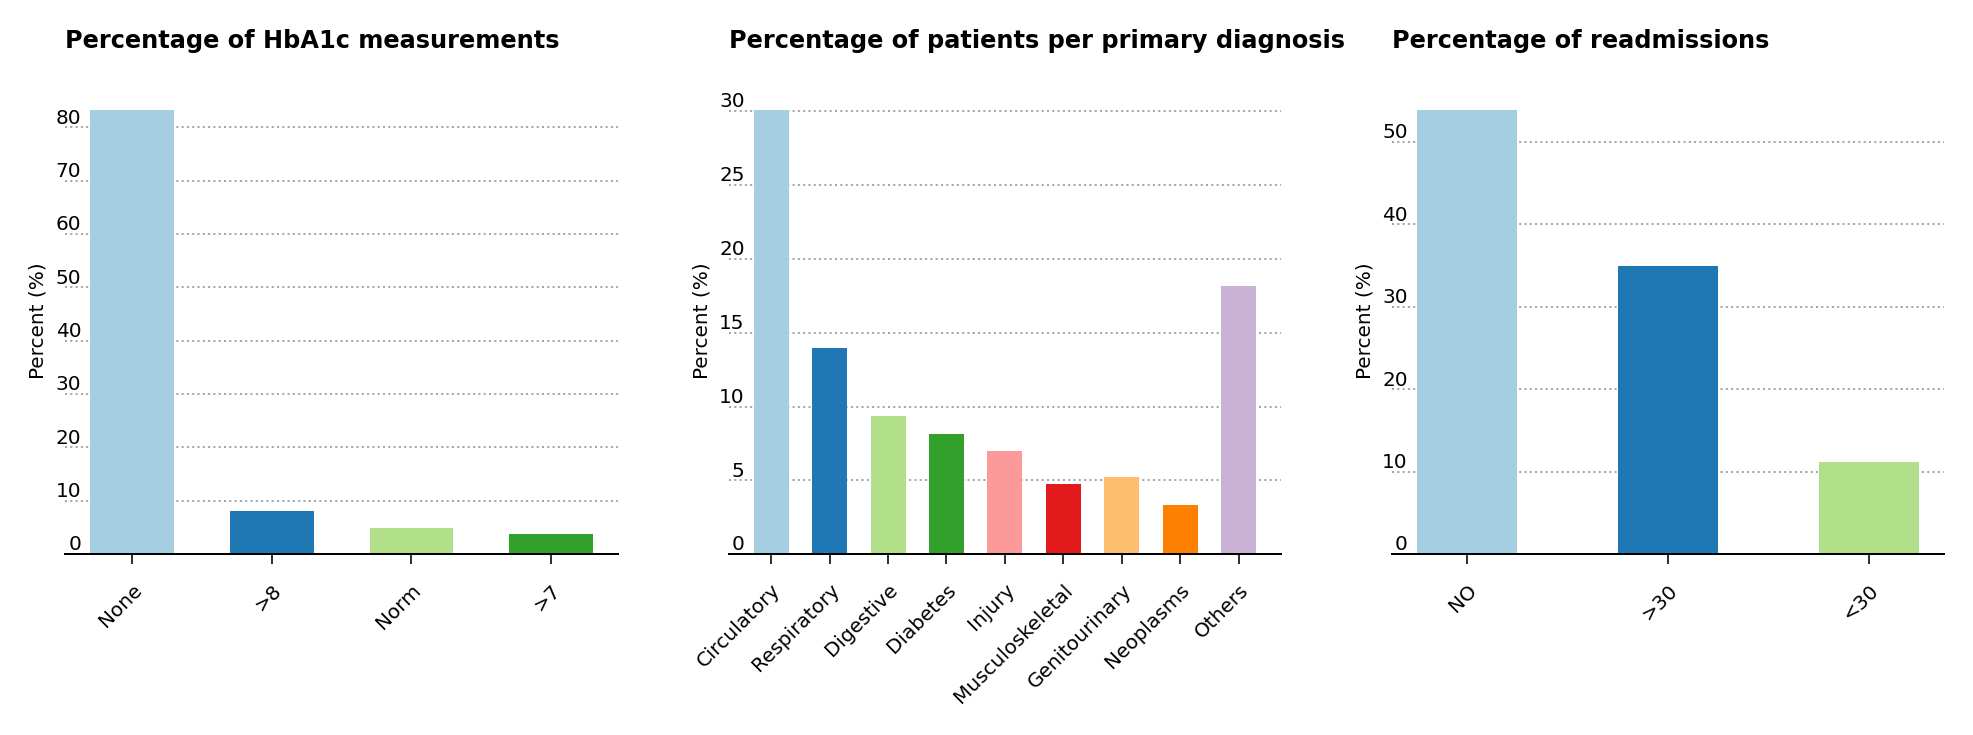
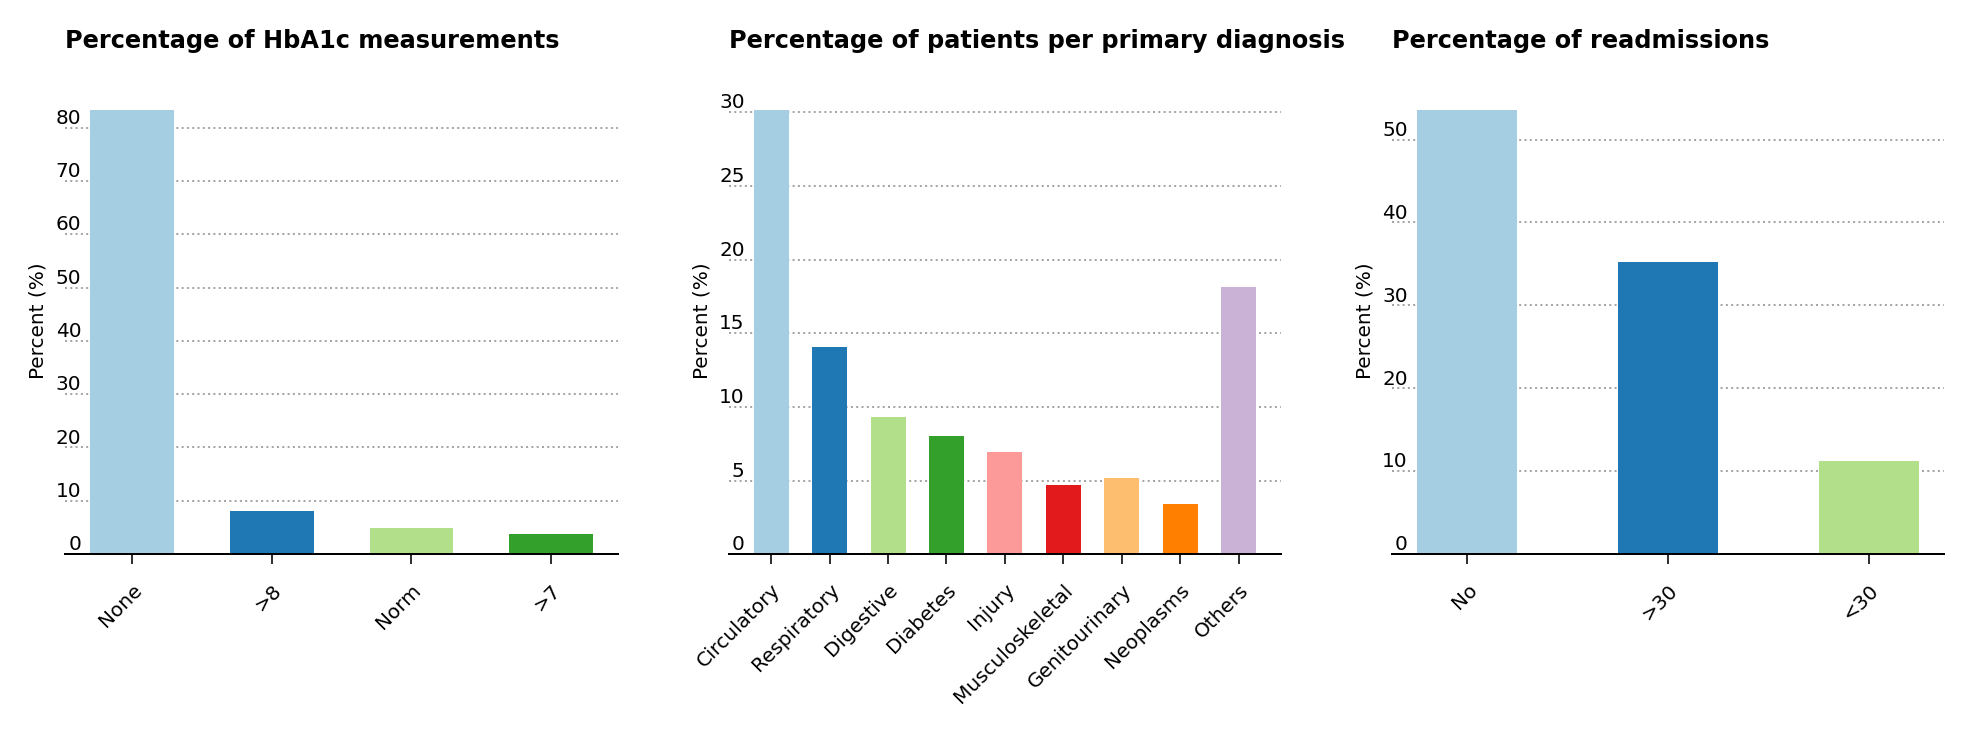
Updated to pandas 2.2.x

Changed region(s): [[0.7111, 0.8082, 0.742, 0.8381], [0.6802, 0.3891, 0.7111, 0.419], [0.6802, 0.2694, 0.7111, 0.2993]]

diff --git a/exploratory_data_analysis/a1c_diagnosis_readmitted.py b/exploratory_data_analysis/a1c_diagnosis_readmitted.py
@@ -6,7 +6,7 @@ import matplotlib.pyplot as plt
 from pathlib import Path
 
 work_dir = Path.home() / 'Programming/Python/machine-learning-exercises/'\
-                        'uci-ml-repository/diabetes-in-130-US-hospitals/'
+                         'uci-ml-repository/diabetes-in-130-US-hospitals/'
 data_file = work_dir / 'data/diabetic_data.csv'
 
 # bar plot style with directory path
@@ -15,32 +15,52 @@ plt.style.use(barplot_style)
 
 df = pd.read_csv(data_file, na_values='?', low_memory=False)
 obj_cols = df.select_dtypes('object').columns
-df[obj_cols] = df[obj_cols].astype('category')
+df[obj_cols] = df[obj_cols].astype('string')
 
-# A1Cresult
-a1c_result_df = df['A1Cresult'].value_counts(dropna=False, normalize=True)*100
-a1c_result_df = a1c_result_df.reset_index().rename(columns={'index': 'Feature', 'A1Cresult': 'Percentage'})
-
-# readmitted
-readmitted_df = df['readmitted'].value_counts(dropna=False, normalize=True)*100
-readmitted_df = readmitted_df.reset_index().rename(columns={'index': 'Feature', 'A1Cresult': 'Percentage'})
-
-# primary diagnosis
+# removing NaN or null values from race and gender
 df = df.loc[df.race.notnull()]
 df = df.loc[df.gender != 'Unknown/Invalid', :]
 
-df.drop(['weight', 'medical_specialty', 'payer_code', 'encounter_id'], axis=1, inplace=True)
+# dropping categories due to high presence of NaN / null values
+df.drop(['weight', 'medical_specialty', 'payer_code', 'encounter_id'],
+        axis=1, inplace=True)
 
+# change np.nan to 'None' in 'max_glu_serum' and 'A1Cresult' columns
+df[['max_glu_serum', 'A1Cresult']] = \
+    df[['max_glu_serum', 'A1Cresult']].fillna('None')
+
+# A1Cresult
+a1c_result_df = df['A1Cresult'].value_counts(dropna=False, normalize=True)*100
+a1c_result_df = a1c_result_df.reset_index().\
+    rename(columns={'A1Cresult': 'Feature', 'proportion': 'Percentage'})
+
+# readmitted
+readmitted_df = df['readmitted'].value_counts(dropna=False, normalize=True)*100
+readmitted_df = readmitted_df.reset_index().\
+    rename(columns={'readmitted': 'Feature', 'proportion': 'Percentage'})
+readmitted_df.replace(to_replace={'NO': 'No'}, inplace=True)
+
+# converting null/unmapped values in 'admission_type_id',
+# 'discharge_disposition_id' and 'admission_source_id' to NaN.
 df['admission_type_id'] = df['admission_type_id'].replace([5, 6, 8], np.nan)
-df['discharge_disposition_id'] = df['discharge_disposition_id'].replace([18, 25, 26], np.nan)
-df['admission_source_id'] = df['admission_source_id'].replace([9, 15, 17, 20, 21], np.nan)
-id_list = ['admission_type_id', 'discharge_disposition_id', 'admission_source_id']
-df[id_list] = df[id_list].astype('category')
+df['discharge_disposition_id'] = df['discharge_disposition_id'].\
+    replace([18, 25, 26], np.nan)
+df['admission_source_id'] = df['admission_source_id'].\
+    replace([9, 15, 17, 20, 21], np.nan)
 
+# converting 'admission_type_id', 'discharge_disposition_id'
+# and 'admission_source_id' from int64 to string
+id_list = ['admission_type_id', 'discharge_disposition_id',
+           'admission_source_id']
+df[id_list] = df[id_list].astype('string')
+
+# consolidating all variations of `Expired at...` and removing them
 df = df[~df['discharge_disposition_id'].isin([11, 19, 20, 21])]
 
-df['service_use'] = df['number_outpatient'] + df['number_emergency'] + df['number_inpatient']
-df.drop(['number_outpatient', 'number_emergency', 'number_inpatient'], axis=1, inplace=True)
+df['service_use'] = df['number_outpatient'] +\
+    df['number_emergency'] + df['number_inpatient']
+df.drop(['number_outpatient', 'number_emergency', 'number_inpatient'],
+        axis=1, inplace=True)
 
 df.dropna(how='any', inplace=True)
 
@@ -52,39 +72,48 @@ musculoskeletal_list = [str(f) for f in list(range(710, 740))]
 genitourinary_list = [str(f) for f in list(range(580, 630)) + [788]]
 neoplasms_list = [str(f) for f in list(range(140, 240))]
 
-diagnosis_list = [circulatory_list, respiratory_list, digestive_list, injury_list,
-                  musculoskeletal_list, genitourinary_list, neoplasms_list]
+diagnosis_list = [circulatory_list, respiratory_list,
+                  digestive_list, injury_list,
+                  musculoskeletal_list, genitourinary_list,
+                  neoplasms_list]
 diagnosis_names = ['Circulatory', 'Respiratory', 'Digestive', 'Injury',
                    'Musculoskeletal', 'Genitourinary', 'Neoplasms']
 
-for diag_name, diag_list in zip(diagnosis_names, diagnosis_list):
-    df.loc[:, diag_name+'_col'] = np.array([np.nan for i in range(df.shape[0])])
-    filter_ = df['diag_1'].isin(diag_list)
-    df.loc[filter_, diag_name+'_col'] = np.array([diag_name for i in range(filter_.sum())])
+# selection on primary diagnosis
+diag_col, index = 'diag_1', 1
+df['primary_diag'] = np.array(['Others' for _ in range(df.shape[0])],
+                              dtype='object')
 
+for diag_name, diag_list in zip(diagnosis_names, diagnosis_list):
+    mask = df[diag_col].isin(diag_list)
+    df.loc[mask, 'primary_diag'] = \
+        np.array([diag_name for _ in range(mask.sum())], dtype='object')
+
+# other diagnosis
 diab_others_list = ['Diabetes', 'Others', 'Others']
 char_list = ['250.', 'E', 'V']
 
 for diag_name, char in zip(diab_others_list, char_list):
-    df[diag_name+'_col'] = np.array([np.nan for _ in range(df.shape[0])])
-    filter_ = df['diag_1'].str.contains(char)
-    df.loc[filter_, diag_name+'_col'] = np.array([diag_name for i in range(filter_.sum())])
+    mask = df[diag_col].str.contains(char)
+    df.loc[mask, 'primary_diag'] = \
+        np.array([diag_name for _ in range(mask.sum())])
 
-tmp_diag_list = [col+'_col' for col in diagnosis_names + ['Diabetes', 'Others']]
-df['primary_diag'] = df[tmp_diag_list].fillna(axis=1, method='bfill').iloc[:, 0]
-df['primary_diag'].fillna(value='Others', inplace=True)
-df['primary_diag'] = df['primary_diag'].astype('category')
-df.drop(tmp_diag_list, axis=1, inplace=True)
+# dropping all three diagnosis columns
+df.drop(['diag_1', 'diag_2', 'diag_3'], axis=1, inplace=True)
 
-diagnosis_df = df['primary_diag'].value_counts(dropna=False)
+diagnosis_df = df['primary_diag'].value_counts(dropna=False,
+                                               normalize=True)*100
 diagnosis_df.sort_values(ascending=False, inplace=True)
-diagnosis_df = (diagnosis_df/diagnosis_df.sum()*100).apply('{:.2f}'.format).astype('float')
-diagnosis_df = diagnosis_df.reset_index().rename(columns={'index': 'Primary diagnosis', 'primary_diag': 'Percentage'})
+
+diagnosis_df = diagnosis_df.reset_index().\
+    rename(columns={'primary_diag': 'Primary diagnosis',
+                    'proportion': 'Percentage'})
 
 order_list = ['Circulatory', 'Respiratory', 'Digestive', 'Diabetes', 'Injury',
               'Musculoskeletal', 'Genitourinary', 'Neoplasms', 'Others']
 diagnosis_df = diagnosis_df.set_index('Primary diagnosis').loc[order_list]
-diagnosis_df = diagnosis_df.reset_index().rename(columns={'Primary diagnosis': 'Feature'})
+diagnosis_df = diagnosis_df.reset_index().\
+    rename(columns={'Primary diagnosis': 'Feature'})
 
 df_list = [a1c_result_df, diagnosis_df, readmitted_df]
 title_list = ['Percentage of HbA1c measurements',
